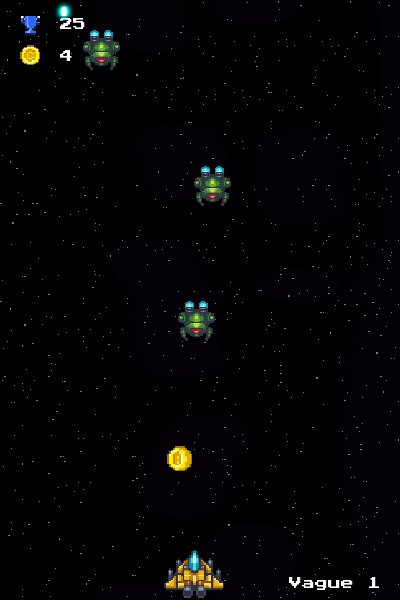
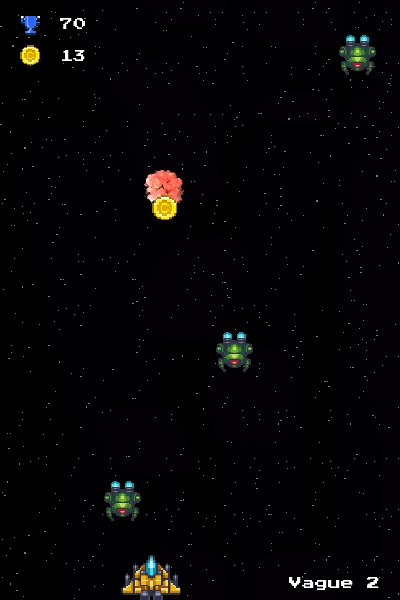
Dernière version avec inscription

diff --git a/main.py b/main.py
@@ -5,10 +5,41 @@ import sys
 from PIL import Image, ImageFilter
 from pygame.math import Vector2
 
-#Fonctions pour la sauvegarde#
+
+#Initialisation du jeu#
+pygame.init()
+pygame.font.init()
+
+# Nom de la fenêtre #
+pygame.display.set_caption("SpaceShoot")
+
+#Définition de la police d'écriture #
+def get_font(size): # Returns Press-Start-2P in the desired size
+    return pygame.font.Font("assets/menu/font.ttf", size)
+
+COLOR_INACTIVE = pygame.Color('lightskyblue3')
+COLOR_ACTIVE = pygame.Color('green')
+
+existe_deja = 0
+existe_pas = 0
+
+#Icone jeu#
+icon = pygame.image.load('assets/vaisseaux/player/ship 01/nomove.png')
+pygame.display.set_icon(icon)
+
+#Background des boutons#
+buttonimg = pygame.image.load("assets/menu/button.png")
+buttonimg = pygame.transform.scale(buttonimg,(150,50))
+screen = pygame.display.set_mode((400, 600))
+
+with open("initalisation.txt","w") as init :
+    init.write("0\n0\n0\n0\n0\n0\n")
+    init.close()
+nom_fichier = "initalisation.txt"
+
 
 def saveread(score):
-    with open("scores.txt","r") as fichier:
+    with open(nom_fichier,"r") as fichier:
         list = fichier.readlines()
         fichier.close()
     if score == "bestscore":
@@ -26,7 +57,7 @@ def saveread(score):
 
 def save(score,vol,pos,vol2,pos2):
     bestscore = saveread("bestscore")
-    fichier = open("scores.txt","w+")
+    fichier = open(nom_fichier,"w+")
     if score > int(bestscore):
         fichier.write(str(score)+"\n"+str(score)+"\n"+str(vol)+"\n"+str(pos)+"\n"+str(vol2)+"\n"+str(pos2))
         fichier.close()
@@ -37,6 +68,134 @@ def save(score,vol,pos,vol2,pos2):
         fichier.write(bestscore+"\n"+str(score)+"\n"+str(vol)+"\n"+str(pos)+"\n"+str(vol2)+"\n"+str(pos2))
         fichier.close()
 
+
+def session():
+    global nom_fichier, existe_deja, existe_pas
+    input_box = pygame.Rect(100, 100, 140,32)
+    input_box1 = InputBox(100, 100, 140, 32)
+    input_box2 = InputBox(100, 300, 140, 32)
+    input_boxes = [input_box1, input_box2]
+    done = False
+    INSCRIPTION_TEXT = get_font(12).render("S'inscrire", True, "white")
+    INSCRIPTION_RECT = INSCRIPTION_TEXT.get_rect(center=(200, 75))
+    CONNEXION_TEXT = get_font(12).render("Se connecter", True, "white")
+    CONNEXION_RECT = CONNEXION_TEXT.get_rect(center=(200, 275))
+    while not done:
+        for event in pygame.event.get():
+            if event.type == pygame.QUIT:
+                done = True
+
+            input_box1.handle_event_1(event)
+            input_box2.handle_event_2(event)
+
+
+        for box in input_boxes:
+            box.update()
+
+        screen.fill((30, 30, 30))
+        screen.blit(INSCRIPTION_TEXT, INSCRIPTION_RECT)
+        screen.blit(CONNEXION_TEXT,CONNEXION_RECT)
+
+        for box in input_boxes:
+            box.draw(screen)
+        
+        if existe_deja == 1 :
+            EXISTE_DEJA_TEXT = get_font(10).render("* Ce nom est déjà pris", True, "red")
+            EXISTE_DEJA_RECT = EXISTE_DEJA_TEXT.get_rect(center=(200, 150))
+            screen.blit(EXISTE_DEJA_TEXT, EXISTE_DEJA_RECT)
+        if existe_pas == 1 :
+            EXISTE_PAS_TEXT = get_font(10).render("* Ce nom n'existe pas", True, "red")
+            EXISTE_PAS_RECT = EXISTE_PAS_TEXT.get_rect(center=(200, 350))
+            screen.blit(EXISTE_PAS_TEXT, EXISTE_PAS_RECT)
+
+        pygame.display.flip()
+
+class InputBox:
+    def __init__(self, x, y, w, h, text=''):
+        self.rect = pygame.Rect(x, y, w, h)
+        self.color = COLOR_INACTIVE
+        self.text = text
+        self.txt_surface = get_font(12).render(text, True, self.color)
+        self.active = False
+
+    
+    def handle_event_1(self, event):
+        global existe_deja
+        if event.type == pygame.MOUSEBUTTONDOWN:
+            # If the user clicked on the input_box rect.
+            if self.rect.collidepoint(event.pos):
+                # Toggle the active variable.
+                self.active = not self.active
+            else:
+                self.active = False
+            # Change the current color of the input box.
+            self.color = COLOR_ACTIVE if self.active else COLOR_INACTIVE
+        if event.type == pygame.KEYDOWN:
+            if self.active:
+                if event.key == pygame.K_RETURN:
+                    nom_fichier = str(self.text) + ".txt"
+                    try:
+                        with open(nom_fichier, 'r') as f:
+                            existe_deja = 1
+                    except FileNotFoundError as e:
+                        nom_fichier = str(self.text)+'.txt'
+                        with open(nom_fichier, 'w+') as f:
+                            f.write("0\n0\n0\n0\n0\n0\n")
+                            f.close()
+                        main_menu()
+                    except IOError as e:
+                        nom_fichier = str(self.text)+'.txt'
+                        with open(nom_fichier, 'w+') as f:
+                            f.write("0\n0\n0\n0\n0\n0\n")
+                            f.close()
+                        main_menu()
+                    self.text = ''
+                elif event.key == pygame.K_BACKSPACE:
+                    self.text = self.text[:-1]
+                else:
+                    self.text += event.unicode
+                # Re-render the text.
+                self.txt_surface = get_font(12).render(self.text, True, self.color)
+
+    def handle_event_2(self, event):
+        global existe_pas
+        if event.type == pygame.MOUSEBUTTONDOWN:
+            # If the user clicked on the input_box rect.
+            if self.rect.collidepoint(event.pos):
+                # Toggle the active variable.
+                self.active = not self.active
+            else:
+                self.active = False
+            # Change the current color of the input box.
+            self.color = COLOR_ACTIVE if self.active else COLOR_INACTIVE
+        if event.type == pygame.KEYDOWN:
+            if self.active:
+                if event.key == pygame.K_RETURN:
+                    nom_fichier = str(self.text) + ".txt"
+                    try:
+                        with open(nom_fichier, 'r') as f:
+                            main_menu()
+                    except FileNotFoundError as e:
+                        existe_pas = 1
+                    except IOError as e:
+                        existe_pas =1
+                    self.text = ''
+                elif event.key == pygame.K_BACKSPACE:
+                    self.text = self.text[:-1]
+                else:
+                    self.text += event.unicode
+                # Re-render the text.
+                self.txt_surface = get_font(12).render(self.text, True, self.color)
+
+    def update(self):
+        # Resize the box if the text is too long.
+        width = max(200, self.txt_surface.get_width()+10)
+        self.rect.w = width
+    def draw(self, screen):
+        # Blit the text.
+        screen.blit(self.txt_surface, (self.rect.x+5, self.rect.y+5))
+        # Blit the rect.
+        pygame.draw.rect(screen, self.color, self.rect, 2)  
 
 class Button():
     def __init__(self, image, pos, text_input, font, base_color, hovering_color):
@@ -119,8 +278,8 @@ class Monster(pygame.sprite.Sprite):
         self.game = game
         soundObj = pygame.mixer.Sound('sounds/ennemy_explosion.aiff')
         soundObj.set_volume(float(saveread("volume2")))
-        self.health = 30
-        self.max_health = 30
+        self.health = 1000
+        self.max_health = 1000
         self.attack = 10
         self.all_laser = pygame.sprite.Group()
         self.image = pygame.image.load("assets/vaisseaux/ennemies/enemy-01/nomove_1.png")
@@ -159,8 +318,8 @@ class Monster(pygame.sprite.Sprite):
         self.rect.center = self.pos
 
     def HealthUp(self, x) :
-        self.health += x
         self.max_health += x
+        self.health += x
         
 
 #classe projectile de notre vaisseau #
@@ -196,7 +355,7 @@ class Player(pygame.sprite.Sprite):
         self.game = game
         self.health = 100
         self.max_health = 100
-        self.attack = 15
+        self.attack = 500
         self.velocity = 440
         self.score = 0
         self.money = 0
@@ -337,26 +496,7 @@ class Game:
 
     
 
-#Initialisation du jeu#
-pygame.init()
-pygame.font.init()
 
-# Nom de la fenêtre #
-pygame.display.set_caption("SpaceShoot")
-
-#Définition de la police d'écriture #
-def get_font(size): # Returns Press-Start-2P in the desired size
-    return pygame.font.Font("assets/menu/font.ttf", size)
-
-
-#Icone jeu#
-icon = pygame.image.load('assets/vaisseaux/player/ship 01/nomove.png')
-pygame.display.set_icon(icon)
-
-#Background des boutons#
-buttonimg = pygame.image.load("assets/menu/button.png")
-buttonimg = pygame.transform.scale(buttonimg,(150,50))
-screen = pygame.display.set_mode((400, 600))
 
 #Déclaration des variables de son#
 volume = float(saveread("volume"))
@@ -421,7 +561,7 @@ def options(menu):
                     if menu == "menu":
                         return 0
                     else :
-                        BG2 = pygame.image.load("assets/menu/blurrybg.jpg")
+                        BG2 = pygame.image.load("assets/menu/blurrybg.jpygame")
                         screen.blit(BG2, (0, 0))
                         return 0
             if event.type == pygame.MOUSEBUTTONDOWN:
@@ -429,7 +569,7 @@ def options(menu):
                     if menu == "menu":
                         return 0
                     else:
-                        BG2 = pygame.image.load("assets/menu/blurrybg.jpg")
+                        BG2 = pygame.image.load("assets/menu/blurrybg.jpygame")
                         screen.blit(BG2, (0, 0))
                         return 0
 
@@ -679,6 +819,7 @@ def jeu():
     cost_life=1
     cost_delay=1
     cost_earning=1
+    spawn_delay = 20
     last_seconde2 = pygame.time.get_ticks()
     bestscore = int(saveread("bestscore"))
     prec_score = pygame.transform.scale(prec_score,(20,20))
@@ -694,8 +835,6 @@ def jeu():
 
         dt = clock.tick(2000)
         time = dt/1000
-        print(clock.get_fps())
-
         if pause != 1:
             y_background += 0.25
         if y_background < 600 :
@@ -707,11 +846,6 @@ def jeu():
 
         #Appliquer image de notre joueur#
         screen.blit(game.player.image, game.player.rect)
-
-        # for button in [freeze_BUTTON]:
-        #     button.changeColor(MOUSE_POS)
-        #     button.update(screen)
-
         #Appliquer l'ensemble de mon grp de projectiles en les dessinant#
         game.explosion_group.update()
         game.player.all_projectiles.draw(screen)
@@ -723,7 +857,7 @@ def jeu():
         if game.player.health <= 0:
             soundObj = pygame.mixer.Sound('sounds/game_over.wav')
             soundObj.set_volume(volume)
-            soundObj.play(-1, 0.0, 0)
+            soundObj.play()
             pygame.mixer.music.stop()
             save(game.player.score,saveread("volume"),saveread("position"),saveread("volume2"),saveread("position2"))
             over_menu()
@@ -766,7 +900,7 @@ def jeu():
             screen.blit(VagueFinish_TEXT, VagueFinish_RECT)
             VAGUE_MOUSE_POS=pygame.mouse.get_pos()
             POWER_SHOOT_BUTTON = Button(image=buttonimg, pos=(120, 400), text_input="Power Shoot", font=get_font(8), base_color="White", hovering_color=color1)
-            LIFE_BUTTON = Button(image=buttonimg, pos=(290, 400), text_input="Upgrade life", font=get_font(8), base_color="White", hovering_color=color2)
+            LIFE_BUTTON = Button(image=buttonimg, pos=(290, 400), text_input="Upygamerade life", font=get_font(8), base_color="White", hovering_color=color2)
             SHOOT_DELAY_BUTTON = Button(image=buttonimg, pos=(120, 490), text_input="Shoot delay", font=get_font(8), base_color="White", hovering_color=color3)
             EARNING_BUTTON = Button(image=buttonimg, pos=(290, 490), text_input="Money Value", font=get_font(8), base_color="White", hovering_color=color4)
             screen.blit(money,(50,430))
@@ -809,10 +943,11 @@ def jeu():
                 last_seconde = now
                 vague +=1
                 velocity += 10
-                game.SpawnUp(20)
-                game.monster.attack += 2
-                game.monster.health += 5
-                game.monster.max_health +=5
+                game.SpawnUp(spawn_delay)
+                spawn_delay += 75
+                game.monster.attack += 10
+                game.player.attack -= 100
+
 
         #################################################################################
         # vérifier si le joueur souhaite bouger ou tirer#
@@ -862,11 +997,11 @@ def jeu():
                 if event.key==pygame.K_ESCAPE:
                     mixer.music.pause()
                     score = game.player.score
-                    pygame.image.save(screen,"assets/menu/currentbg.jpg")
-                    OriImage = Image.open('assets/menu/currentbg.jpg')
+                    pygame.image.save(screen,"assets/menu/currentbg.jpygame")
+                    OriImage = Image.open('assets/menu/currentbg.jpygame')
                     blurImage = OriImage.filter(ImageFilter.BLUR)
-                    blurImage.save('assets/menu/blurrybg.jpg')
-                    BG2 = pygame.image.load('assets/menu/blurrybg.jpg')
+                    blurImage.save('assets/menu/blurrybg.jpygame')
+                    BG2 = pygame.image.load('assets/menu/blurrybg.jpygame')
                     screen.blit(BG2, (0, 0))
                     listkeys = [pygame.K_DOWN,pygame.K_UP,pygame.K_RIGHT,pygame.K_SPACE,pygame.K_LEFT,pygame.K_s,pygame.K_z,pygame.K_q,pygame.K_d]
                     for key in listkeys:
@@ -879,7 +1014,7 @@ def jeu():
             if event.type == pygame.MOUSEBUTTONDOWN and count==15 and len(game.all_monsters)==0:
                     if POWER_SHOOT_BUTTON.checkForInput(VAGUE_MOUSE_POS):
                         if game.player.money >= cost_power :
-                            game.player.attack += 5
+                            game.player.attack += 100
                             game.player.money -= cost_power
                             cost_power*=2
                     if LIFE_BUTTON.checkForInput(VAGUE_MOUSE_POS):
@@ -905,4 +1040,4 @@ def jeu():
         #mettre à jour l'écran  #
         pygame.display.update()
 
-main_menu()
+session()
